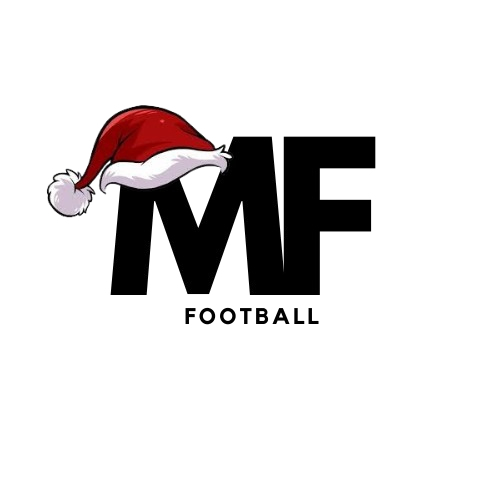
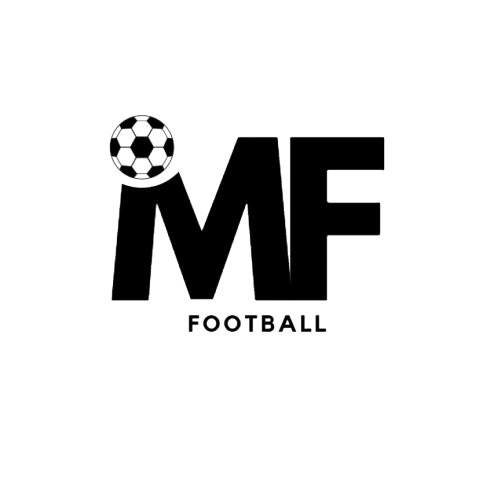
w

Changed region(s): [[0.09, 0.2108, 0.78, 0.6928]]

diff --git a/Diseño/index1.html b/Diseño/index1.html
@@ -47,34 +47,40 @@
             <div class=" video">
                 <div id="carouselExampleInterval" class="carousel slide" data-bs-ride="carousel">
                     <div class="carousel-inner">
-                      <div class="carousel-item active" data-bs-interval="10000">
-                        <iframe class="col-11 col-md-8" width="800" height="415"
-                        src="https://www.youtube.com/embed/ZnT1YgQo2nA?si=7Yq4oBxrQ0aQY2Hy" title="YouTube video player"
-                        frameborder="0"
-                        allow="accelerometer; autoplay; clipboard-write; encrypted-media; gyroscope; picture-in-picture; web-share"
-                        referrerpolicy="strict-origin-when-cross-origin" allowfullscreen></iframe>
-                      </div>
-                      <div class="carousel-item col-8 col-sm-3 col-md-8" data-bs-interval="2000">
-                        <iframe width="800" height="415" src="https://www.youtube.com/embed/I-a-uIQhSBU?si=whSvcyDOvUgFQswg&amp;controls=0" title="YouTube video player" frameborder="0" allow="accelerometer; autoplay; clipboard-write; encrypted-media; gyroscope; picture-in-picture; web-share" referrerpolicy="strict-origin-when-cross-origin" allowfullscreen></iframe>
-                      </div>
-                      <div class="carousel-item">
-                        <iframe class="col-11 col-md-8" width="800" height="415"
-                    src="https://www.youtube.com/embed/ZnT1YgQo2nA?si=7Yq4oBxrQ0aQY2Hy" title="YouTube video player"
-                    frameborder="0"
-                    allow="accelerometer; autoplay; clipboard-write; encrypted-media; gyroscope; picture-in-picture; web-share"
-                    referrerpolicy="strict-origin-when-cross-origin" allowfullscreen></iframe>
-                      </div>
+                        <div class="carousel-item active" data-bs-interval="10000">
+                            <iframe class="col-11 col-md-8" width="800" height="415"
+                                src="https://www.youtube.com/embed/ZnT1YgQo2nA?si=7Yq4oBxrQ0aQY2Hy"
+                                title="YouTube video player" frameborder="0"
+                                allow="accelerometer; autoplay; clipboard-write; encrypted-media; gyroscope; picture-in-picture; web-share"
+                                referrerpolicy="strict-origin-when-cross-origin" allowfullscreen></iframe>
+                        </div>
+                        <div class="carousel-item col-8 col-sm-3 col-md-8" data-bs-interval="2000">
+                            <iframe width="800" height="415"
+                                src="https://www.youtube.com/embed/I-a-uIQhSBU?si=whSvcyDOvUgFQswg&amp;controls=0"
+                                title="YouTube video player" frameborder="0"
+                                allow="accelerometer; autoplay; clipboard-write; encrypted-media; gyroscope; picture-in-picture; web-share"
+                                referrerpolicy="strict-origin-when-cross-origin" allowfullscreen></iframe>
+                        </div>
+                        <div class="carousel-item">
+                            <iframe class="col-11 col-md-8" width="800" height="415"
+                                src="https://www.youtube.com/embed/ZnT1YgQo2nA?si=7Yq4oBxrQ0aQY2Hy"
+                                title="YouTube video player" frameborder="0"
+                                allow="accelerometer; autoplay; clipboard-write; encrypted-media; gyroscope; picture-in-picture; web-share"
+                                referrerpolicy="strict-origin-when-cross-origin" allowfullscreen></iframe>
+                        </div>
                     </div>
-                    <button class="carousel-control-prev"  type="button" data-bs-target="#carouselExampleInterval" data-bs-slide="prev">
-                      <span class="carousel-control-prev-icon" aria-hidden="true"></span>
-                      <span class="visually-hidden">Previous</span>
+                    <button class="carousel-control-prev" type="button" data-bs-target="#carouselExampleInterval"
+                        data-bs-slide="prev">
+                        <span class="carousel-control-prev-icon" aria-hidden="true"></span>
+                        <span class="visually-hidden">Previous</span>
                     </button>
-                    <button class="carousel-control-next" type="button" data-bs-target="#carouselExampleInterval" data-bs-slide="next">
-                      <span class="carousel-control-next-icon" aria-hidden="true"></span>
-                      <span class="visually-hidden">Next</span>
+                    <button class="carousel-control-next" type="button" data-bs-target="#carouselExampleInterval"
+                        data-bs-slide="next">
+                        <span class="carousel-control-next-icon" aria-hidden="true"></span>
+                        <span class="visually-hidden">Next</span>
                     </button>
-                  </div>
-               
+                </div>
+
 
 
                 <div class="descrip">
@@ -127,7 +133,7 @@
                 </div>
 
                 <div class="col-12 col-md-4">
-                    <img id="logoAbajo" alt="papa" src="papanoel.png" width="300"><br>
+                    <img id="logoAbajo" alt="papa" src="1.png" width="300"><br>
 
                     <div class="ms-5">
                         <a href="https://www.instagram.com/futbolvintage88/" target="_blank">
@@ -154,15 +160,30 @@
                     <p>Blog</p>
                     <p onclick="openFeedback()" style="cursor: pointer; ">Contact</p>
                     <p>FaQs</p>
+
                 </div>
+               
+                <p xmlns:cc="http://creativecommons.org/ns#" xmlns:dct="http://purl.org/dc/terms/"><a
+                        property="dct:title" rel="cc:attributionURL" href="https://futboteca.com">Página web</a> by
+                    <span property="cc:attributionName">Mohamed el Khassal</span> is licensed under <a
+                        href="https://creativecommons.org/licenses/by-nc-nd/4.0/?ref=chooser-v1" target="_blank"
+                        rel="license noopener noreferrer" style="display:inline-block;">CC BY-NC-ND 4.0<img
+                            style="height:22px!important;margin-left:3px;vertical-align:text-bottom;"
+                            src="https://mirrors.creativecommons.org/presskit/icons/cc.svg?ref=chooser-v1" alt=""><img
+                            style="height:22px!important;margin-left:3px;vertical-align:text-bottom;"
+                            src="https://mirrors.creativecommons.org/presskit/icons/by.svg?ref=chooser-v1" alt=""><img
+                            style="height:22px!important;margin-left:3px;vertical-align:text-bottom;"
+                            src="https://mirrors.creativecommons.org/presskit/icons/nc.svg?ref=chooser-v1" alt=""><img
+                            style="height:22px!important;margin-left:3px;vertical-align:text-bottom;"
+                            src="https://mirrors.creativecommons.org/presskit/icons/nd.svg?ref=chooser-v1" alt=""></a>
+                </p>
             </div>
 
         </div>
     </footer>
-    <script  src="https://cdn.jsdelivr.net/npm/bootstrap@5.3.3/dist/js/bootstrap.bundle.min.js" 
-    integrity="sha384-YvpcrYf0tY3lHB60NNkmXc5s9fDVZLESaAA55NDzOxhy9GkcIdslK1eN7N6jIeHz" 
-    crossorigin="anonymous">
-    </script>
+    <script src="https://cdn.jsdelivr.net/npm/bootstrap@5.3.3/dist/js/bootstrap.bundle.min.js"
+        integrity="sha384-YvpcrYf0tY3lHB60NNkmXc5s9fDVZLESaAA55NDzOxhy9GkcIdslK1eN7N6jIeHz" crossorigin="anonymous">
+        </script>
     <script>
         function openFeedback() {
             let alto = window.innerHeight - 400;
